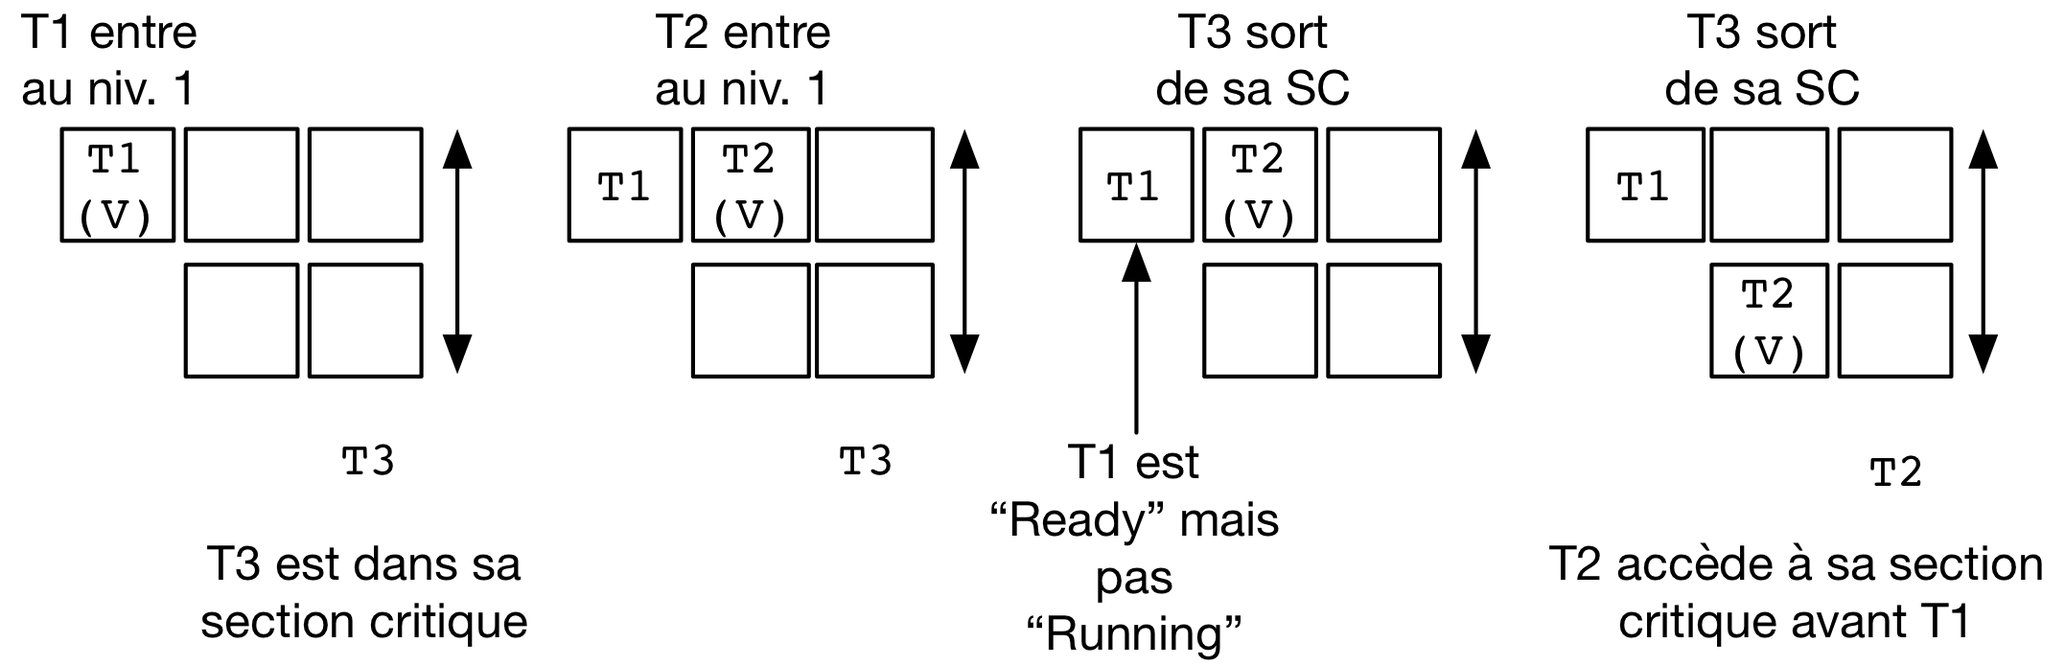
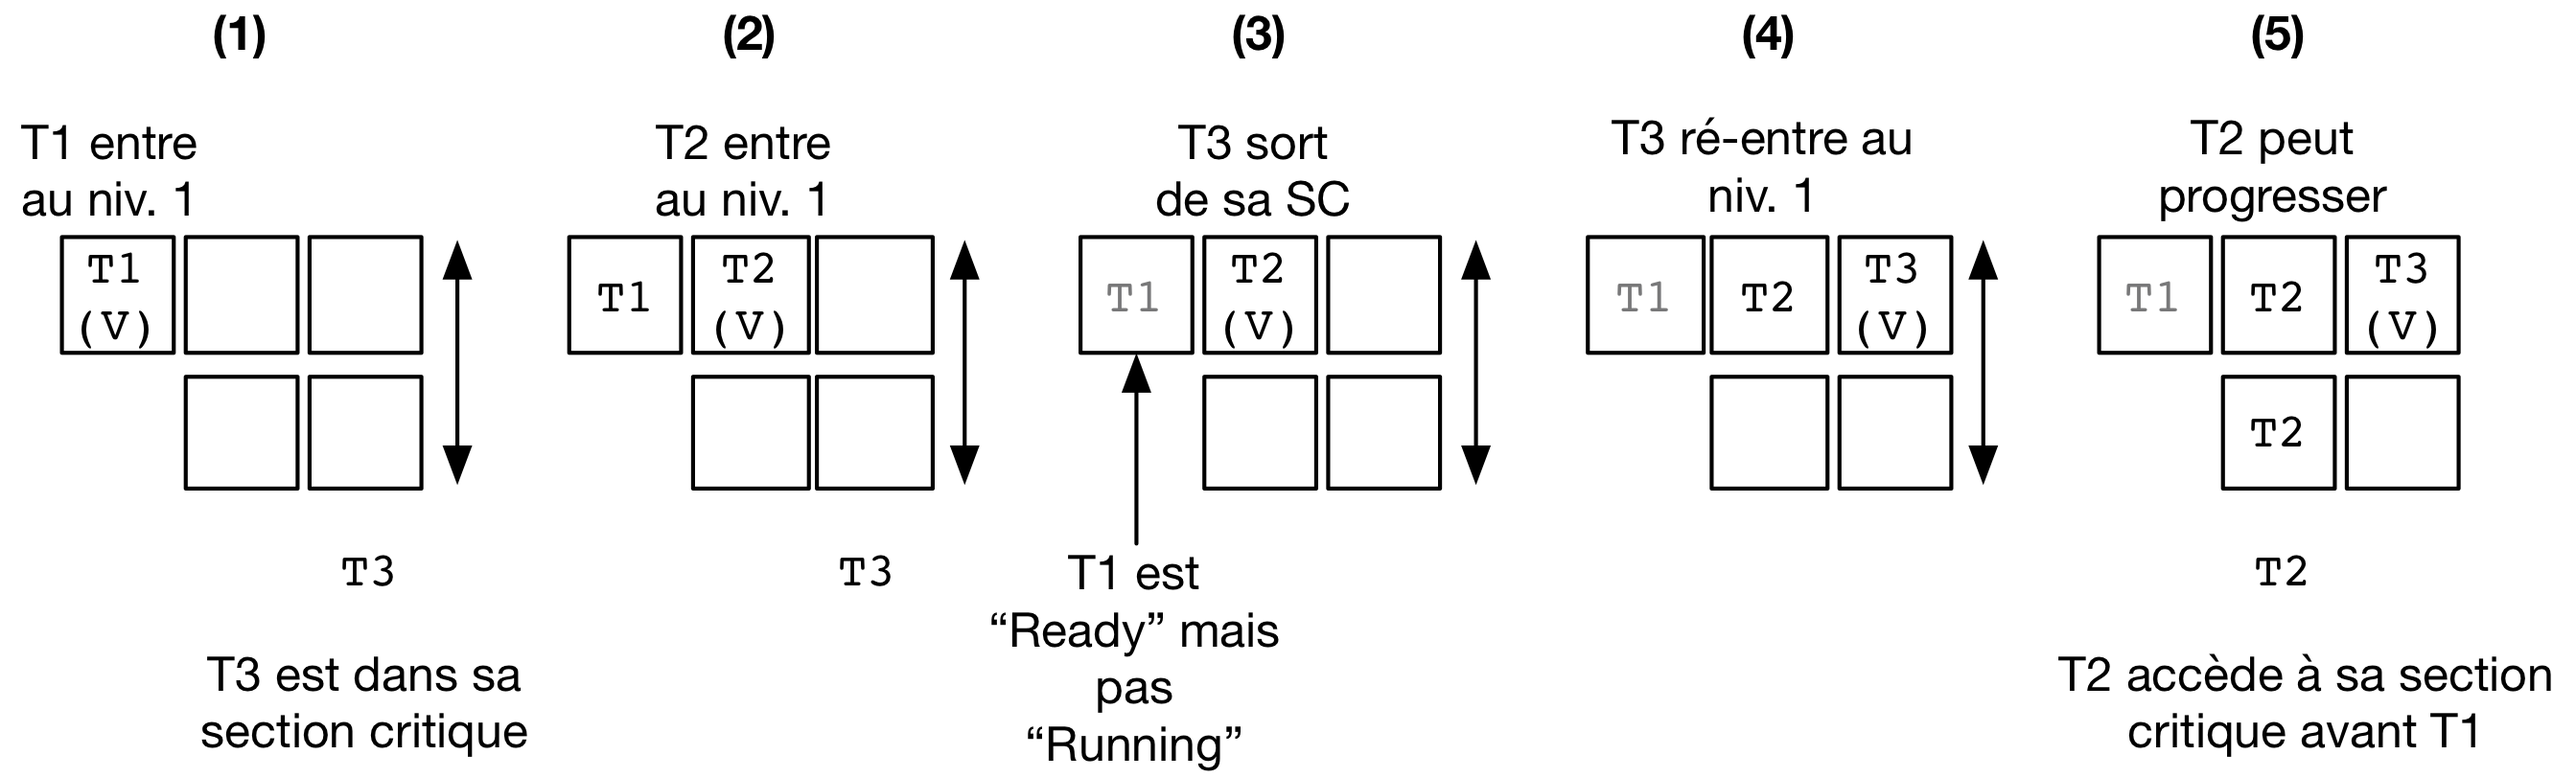
fix fairness filter

diff --git a/Theorie/Threads/spinlocks.rst b/Theorie/Threads/spinlocks.rst
@@ -319,15 +319,18 @@ Le filtre fait donc N-1=2 niveaux.
 
 On suppose que le thread T3 est déjà dans sa section critique et que les threads T1 et T2 veulent aussi accéder à leur section critique.
 L'entrée dans le filtre pour T1 précède strictement l'entrée de T2.
-Au premier niveau, on voit que T1 se déclare comme la victime est reste bloqué.
-L'arrivée de T2 fait que ce dernier se déclare comme victime à ce niveau à la place de T1.
+On voit que T1 se déclare comme la victime et reste bloqué au premier niveau (1).
+L'arrivée de T2 fait que ce dernier se déclare comme victime au niveau 1 à la place de T1 (2).
 T1 pourrait alors accéder au niveau 2, mais entre temps le thread est passé dans l'état Ready, i.e. le scheduler lui a dé-alloué le processeur qu'il occupait.
-Lorsque T3 termine sa section critique, la condition ``t_niv_sup_egal`` pour T2 passe à 0 (false) même si celui-ci était la victime au niveau 1, et il peut donc progresser au niveau 2, puis dans sa section critique.
+Lorsque T3 termine sa section critique (3), T2 ne peut pas progresser car il est toujours bloqué au niveau 1 : sa condition ``t_niv_sup_egal`` est toujours vrai car T1 est présent au niveau 1 (et ce bien que T1 ne puisse pourtant pas s'exécuter et passer au niveau 2 tant que celui-ci n'a pas accès à un processeur).
+Considérons ensuite que T3 souhaite de nouveau accéder à sa section critique.
+T3 entre au niveau 1 et s'y déclare comme la victime (4).
+T2 peut ainsi passer au niveau 2, puis entrer dans sa section critique (5).
 Ainsi, on observe que T2 a pu accéder à sa section critique avant T1 bien que l'accès au filtre ait été fait après celui-ci.
  
 La garantie d'équité pour l'accès à la section critique n'est pas toujours nécessaire et elle n'est pas toujours désirable d'un point de vue des performances.
-Par exemple, on voit ici que le progrès du thread T2 aurait dû être stoppé pour permettre d'attendre que le thread T1 se voie allouer un processeur par le scheduler, afin de progresser et d'exécuter sa section critique.
-Cette attente peut être significativement plus longue que le temps nécessaire à T2 pour terminer de parcourir les niveaux du filtre et exécuter sa propre section critique.
+Ici, pour respecter l'ordre d'arrivée, il aurait été nécessaire de bloquer non seulement T2 mais aussi T3 tant que T1 n'a pas accès à un processeur pour exécuter sa section critique.
+Cette attente peut être significativement plus longue que le temps nécessaire à T2 et T4 pour parcourir les niveaux du filtre et exécuter plusieurs fois leur sections critiques.
 
 Algorithme de la boulangerie (Bakery) de Lamport
 ^^^^^^^^^^^^^^^^^^^^^^^^^^^^^^^^^^^^^^^^^^^^^^^^
